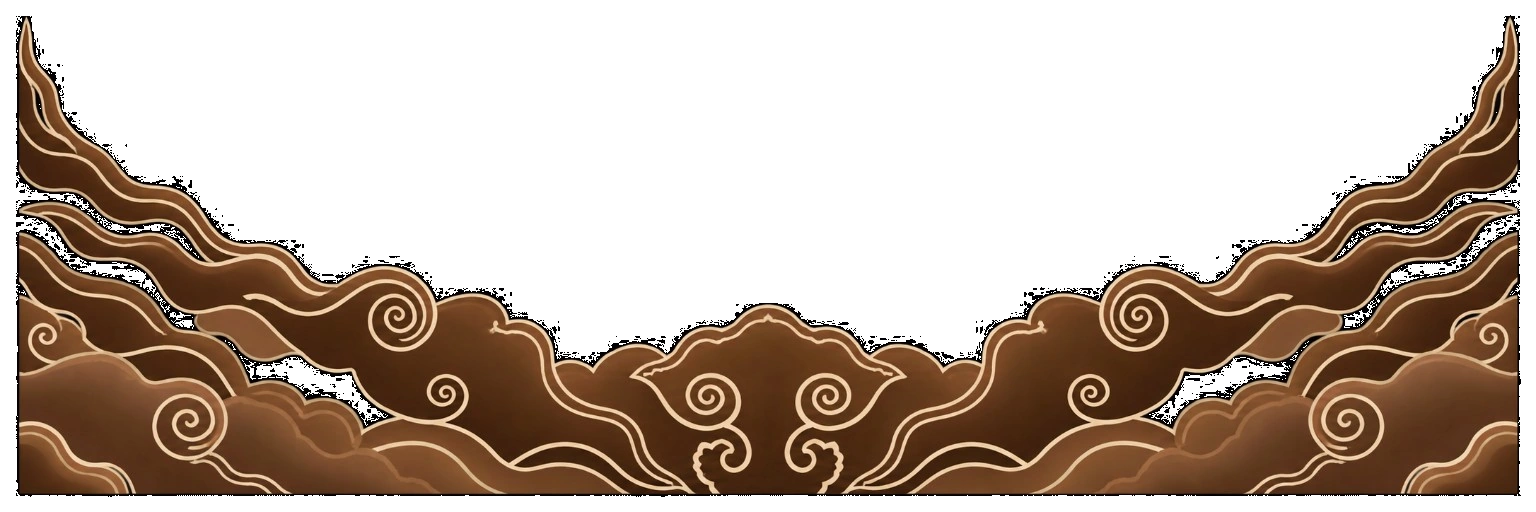
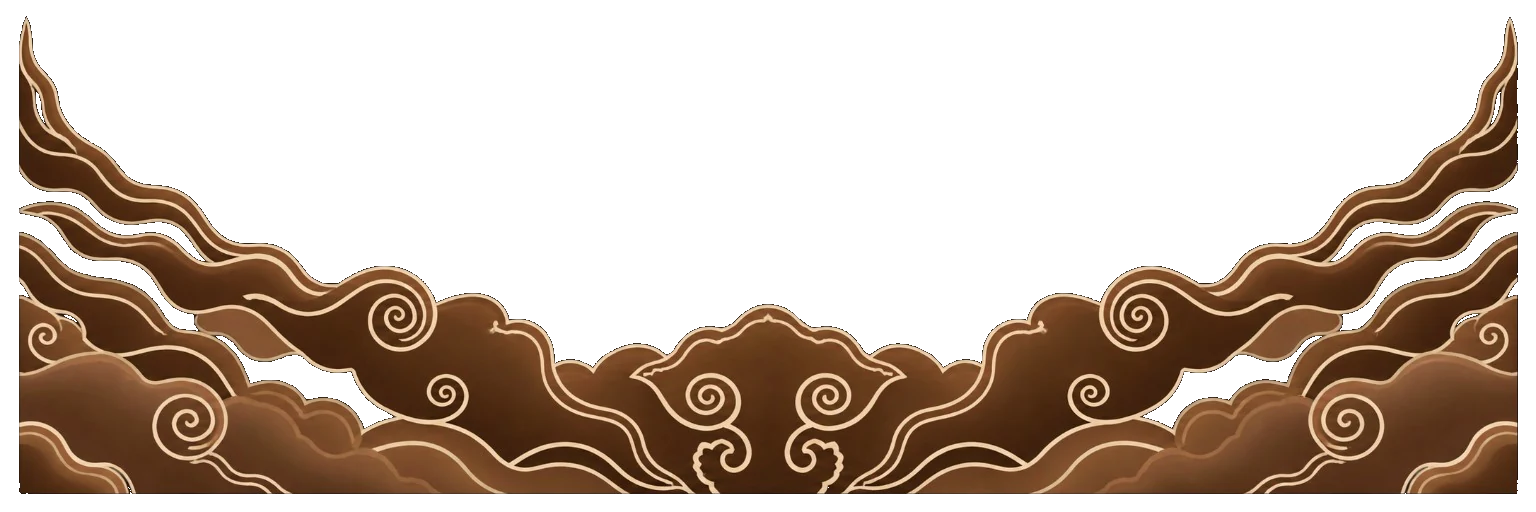
Restore and clean the full Wayang footer artwork

diff --git a/public/themes/wayang-jawa/vistiq-wayang.css b/public/themes/wayang-jawa/vistiq-wayang.css
@@ -3579,5 +3579,5 @@ body.rtl .vistiq-wayang .vistiq-wayang-puppet-wanita-home{left:-76px;right:auto!
 @keyframes wayangCloudDriftRight{0%,100%{translate:-10px 0}50%{translate:10px 0}}
 
 
-/* Remove the bottom footer ornament from the cover */
-html body #sec::after{content:none!important;display:none!important;background:none!important;box-shadow:none!important}
+/* Show the cleaned original footer artwork in full */
+html body #sec::after{content:""!important;position:absolute!important;left:0!important;right:0!important;bottom:0!important;display:block!important;width:100%!important;height:auto!important;aspect-ratio:1536/512!important;z-index:3!important;pointer-events:none!important;clip-path:none!important;transform:none!important;border-radius:0!important;background:transparent url("/themes/wayang-jawa/vistiq-wayang-footer-original.webp") center bottom/contain no-repeat!important;box-shadow:none!important}
